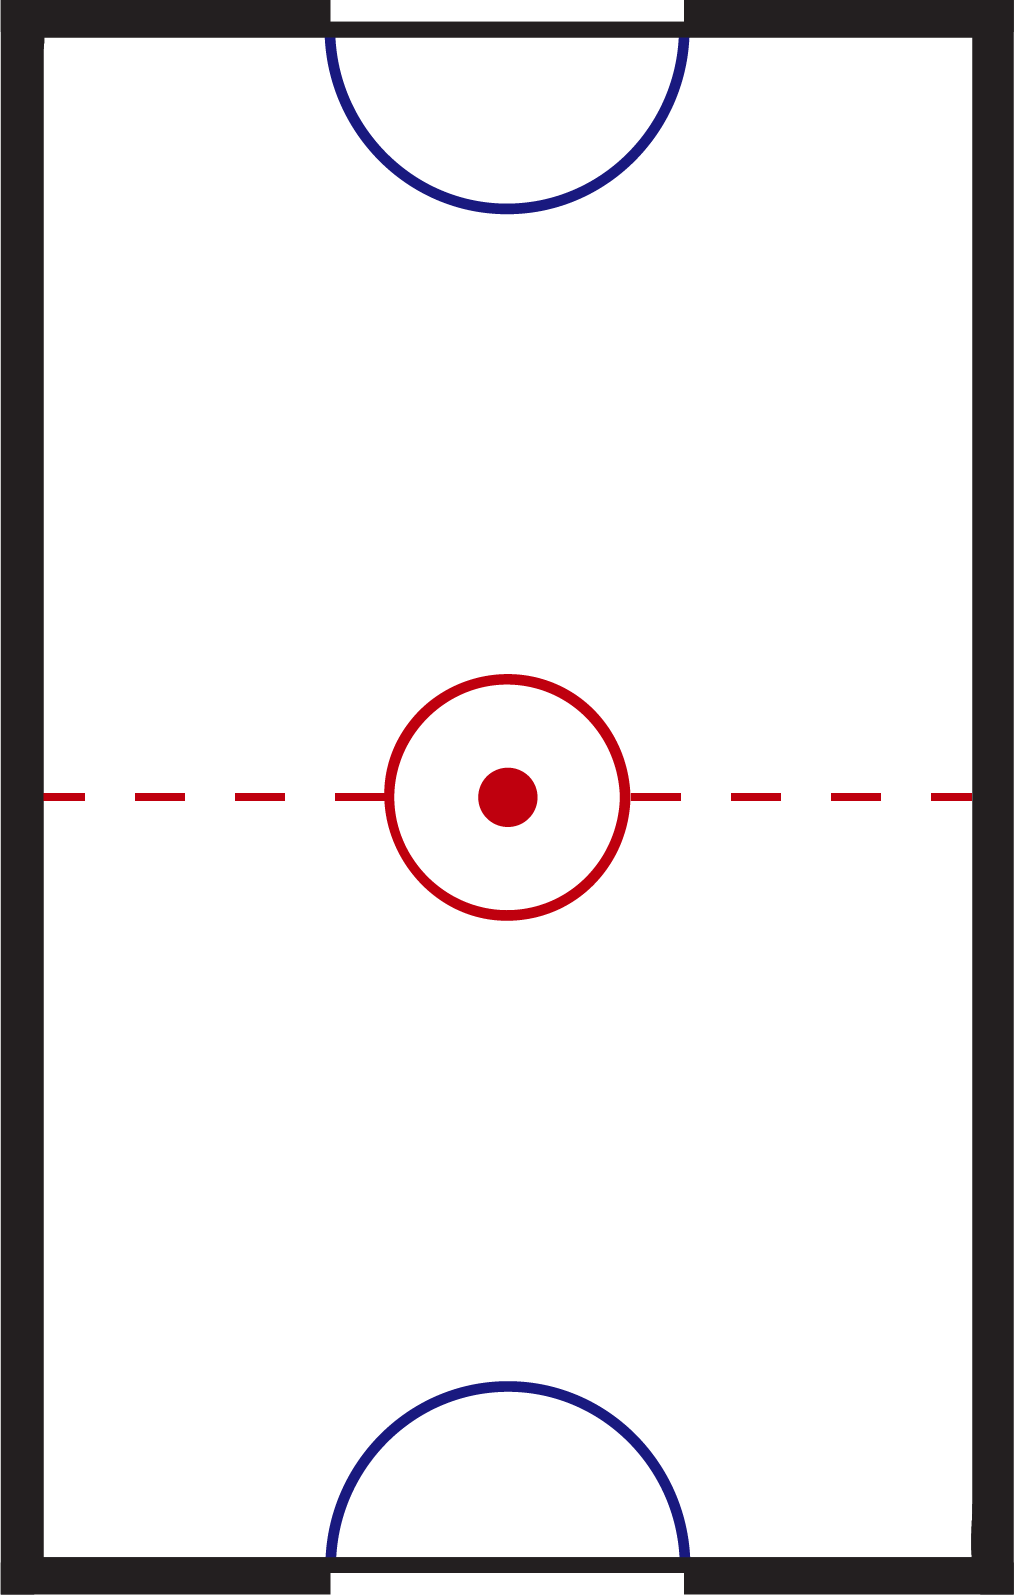
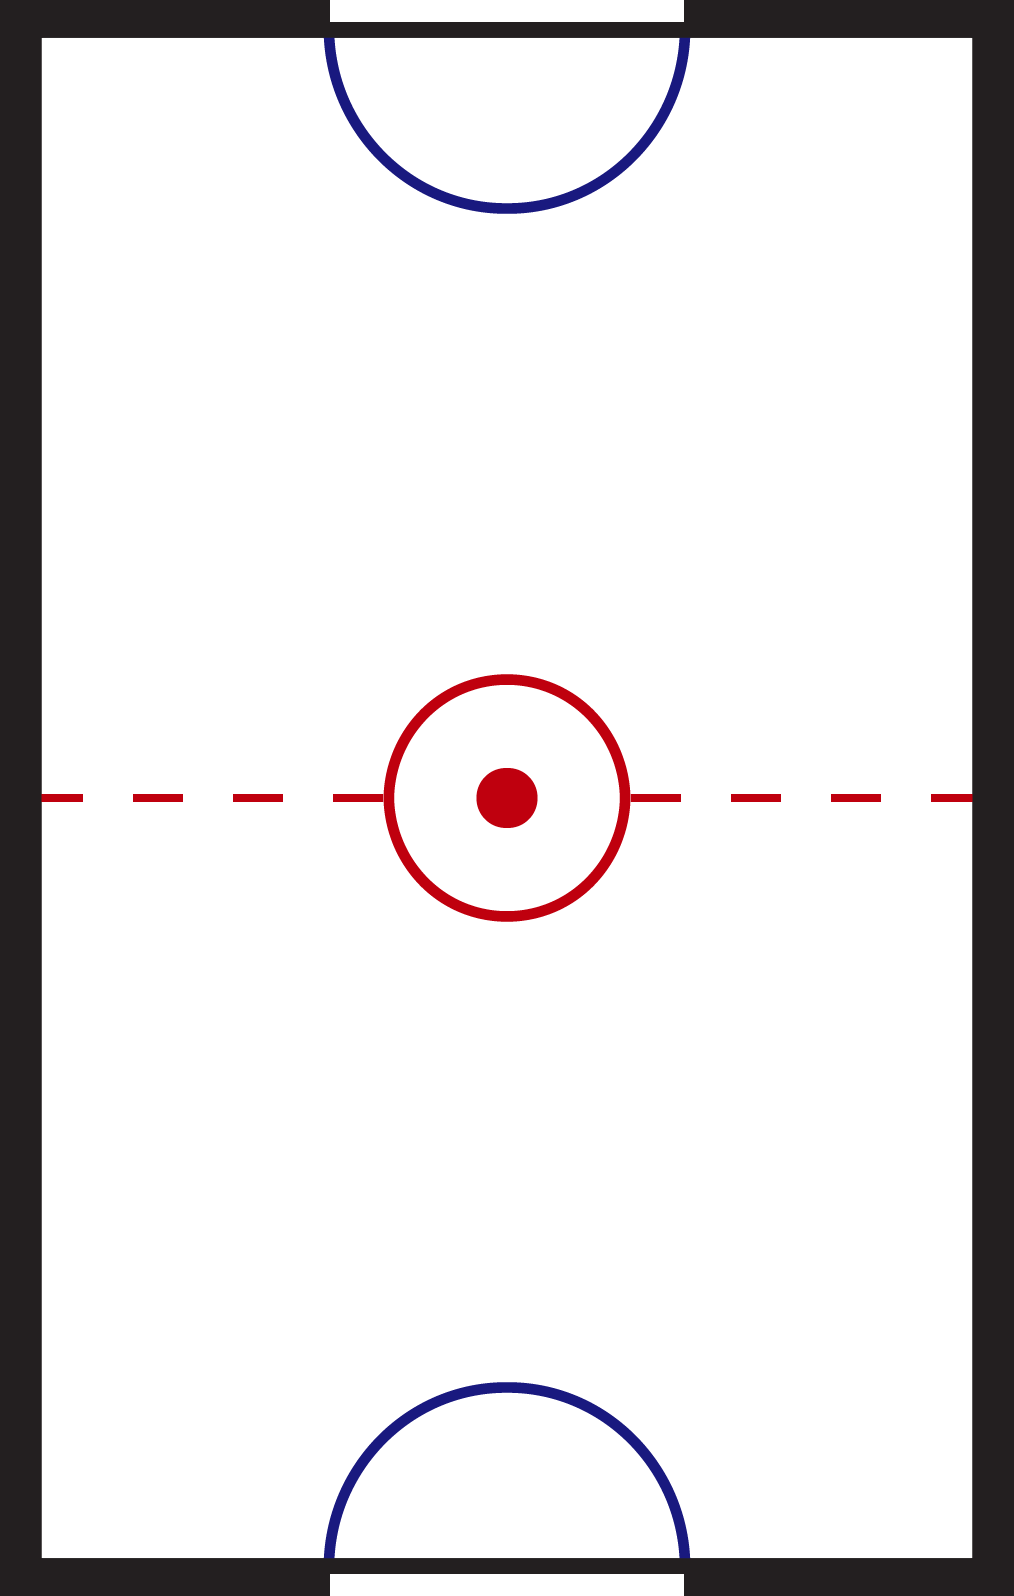
Remake board img, add play area img, remove digit and colon imgs

diff --git a/src/client/asset_manager.py b/src/client/asset_manager.py
@@ -10,24 +10,12 @@ DIGITS_NUMBER = 10
 class AssetManager:
     def __init__(self):
         self.board_img = pygame.image.load(path.join(c.ASSETS_FOLDER, 'board.png'))
+        self.play_area = pygame.image.load(path.join(c.ASSETS_FOLDER, 'play_area.png'))
         self.striker_img = pygame.image.load(path.join(c.ASSETS_FOLDER, 'striker.png'))
         self.puck_img = pygame.image.load(path.join(c.ASSETS_FOLDER, 'puck.png'))
         self.result_bg_big_img = pygame.image.load(path.join(c.ASSETS_FOLDER, 'ui_bg_big.png'))
         self.result_bg_small_img = pygame.image.load(path.join(c.ASSETS_FOLDER, 'ui_bg_small.png'))
-        self.colon_img = pygame.image.load(path.join(c.ASSETS_FOLDER, 'colon.png'))
-
-        self.digits_img = []
-        for digit in range(DIGITS_NUMBER):
-            self.digits_img.append(pygame.image.load(path.join(c.ASSETS_FOLDER, str(digit) + '.png')))
 
     @staticmethod
     def scale_img(img):
         return pygame.transform.smoothscale(img, (img.get_width() * sc.SCALE, img.get_height() * sc.SCALE))
-
-    @staticmethod
-    def scale_imgs(imgs):
-        scaled_imgs = []
-        for img in imgs:
-            scaled_imgs.append(
-                pygame.transform.smoothscale(img, (img.get_width() * sc.SCALE, img.get_height() * sc.SCALE)))
-        return scaled_imgs

diff --git a/src/shared/config.py b/src/shared/config.py
@@ -8,8 +8,8 @@ PACKET_SEND_REPEAT_COUNT = 2
 WINDOW_WIDTH = 960
 WINDOW_HEIGHT = WINDOW_WIDTH
 
-# TODO remove magic number 1595 (stands for board.png height)
-SCALE = WINDOW_HEIGHT / 1595
+# TODO remove magic number 1596 (stands for board.png height)
+SCALE = WINDOW_HEIGHT / 1596
 
 # TODO remove magic number 60
 STRIKER_START_X = WINDOW_WIDTH / 2
